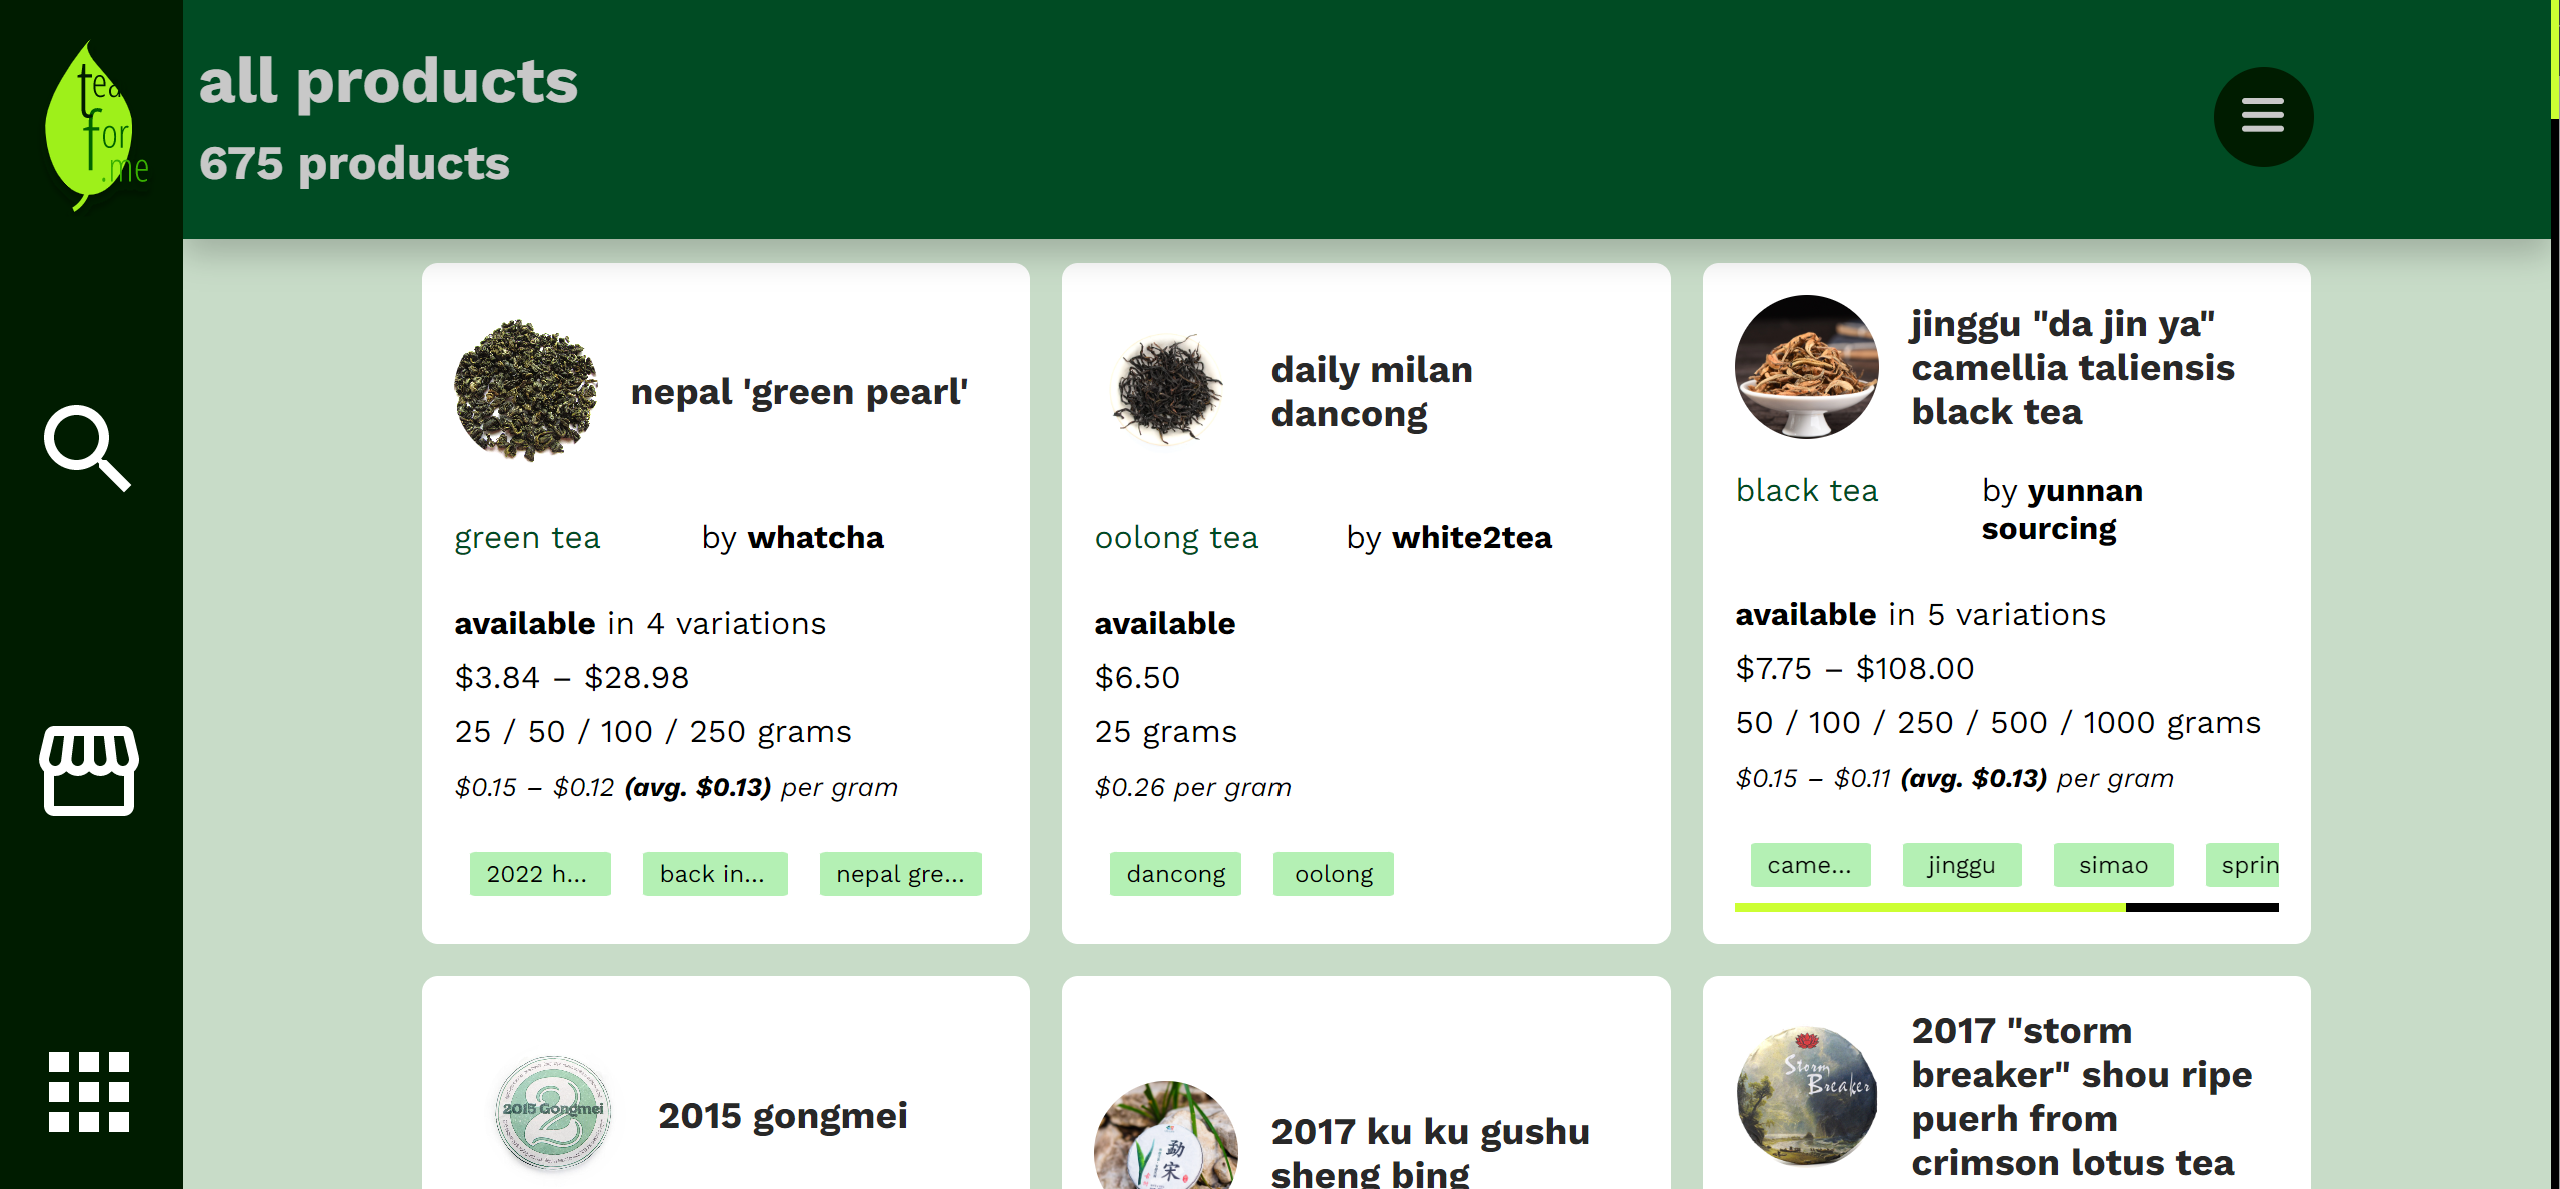
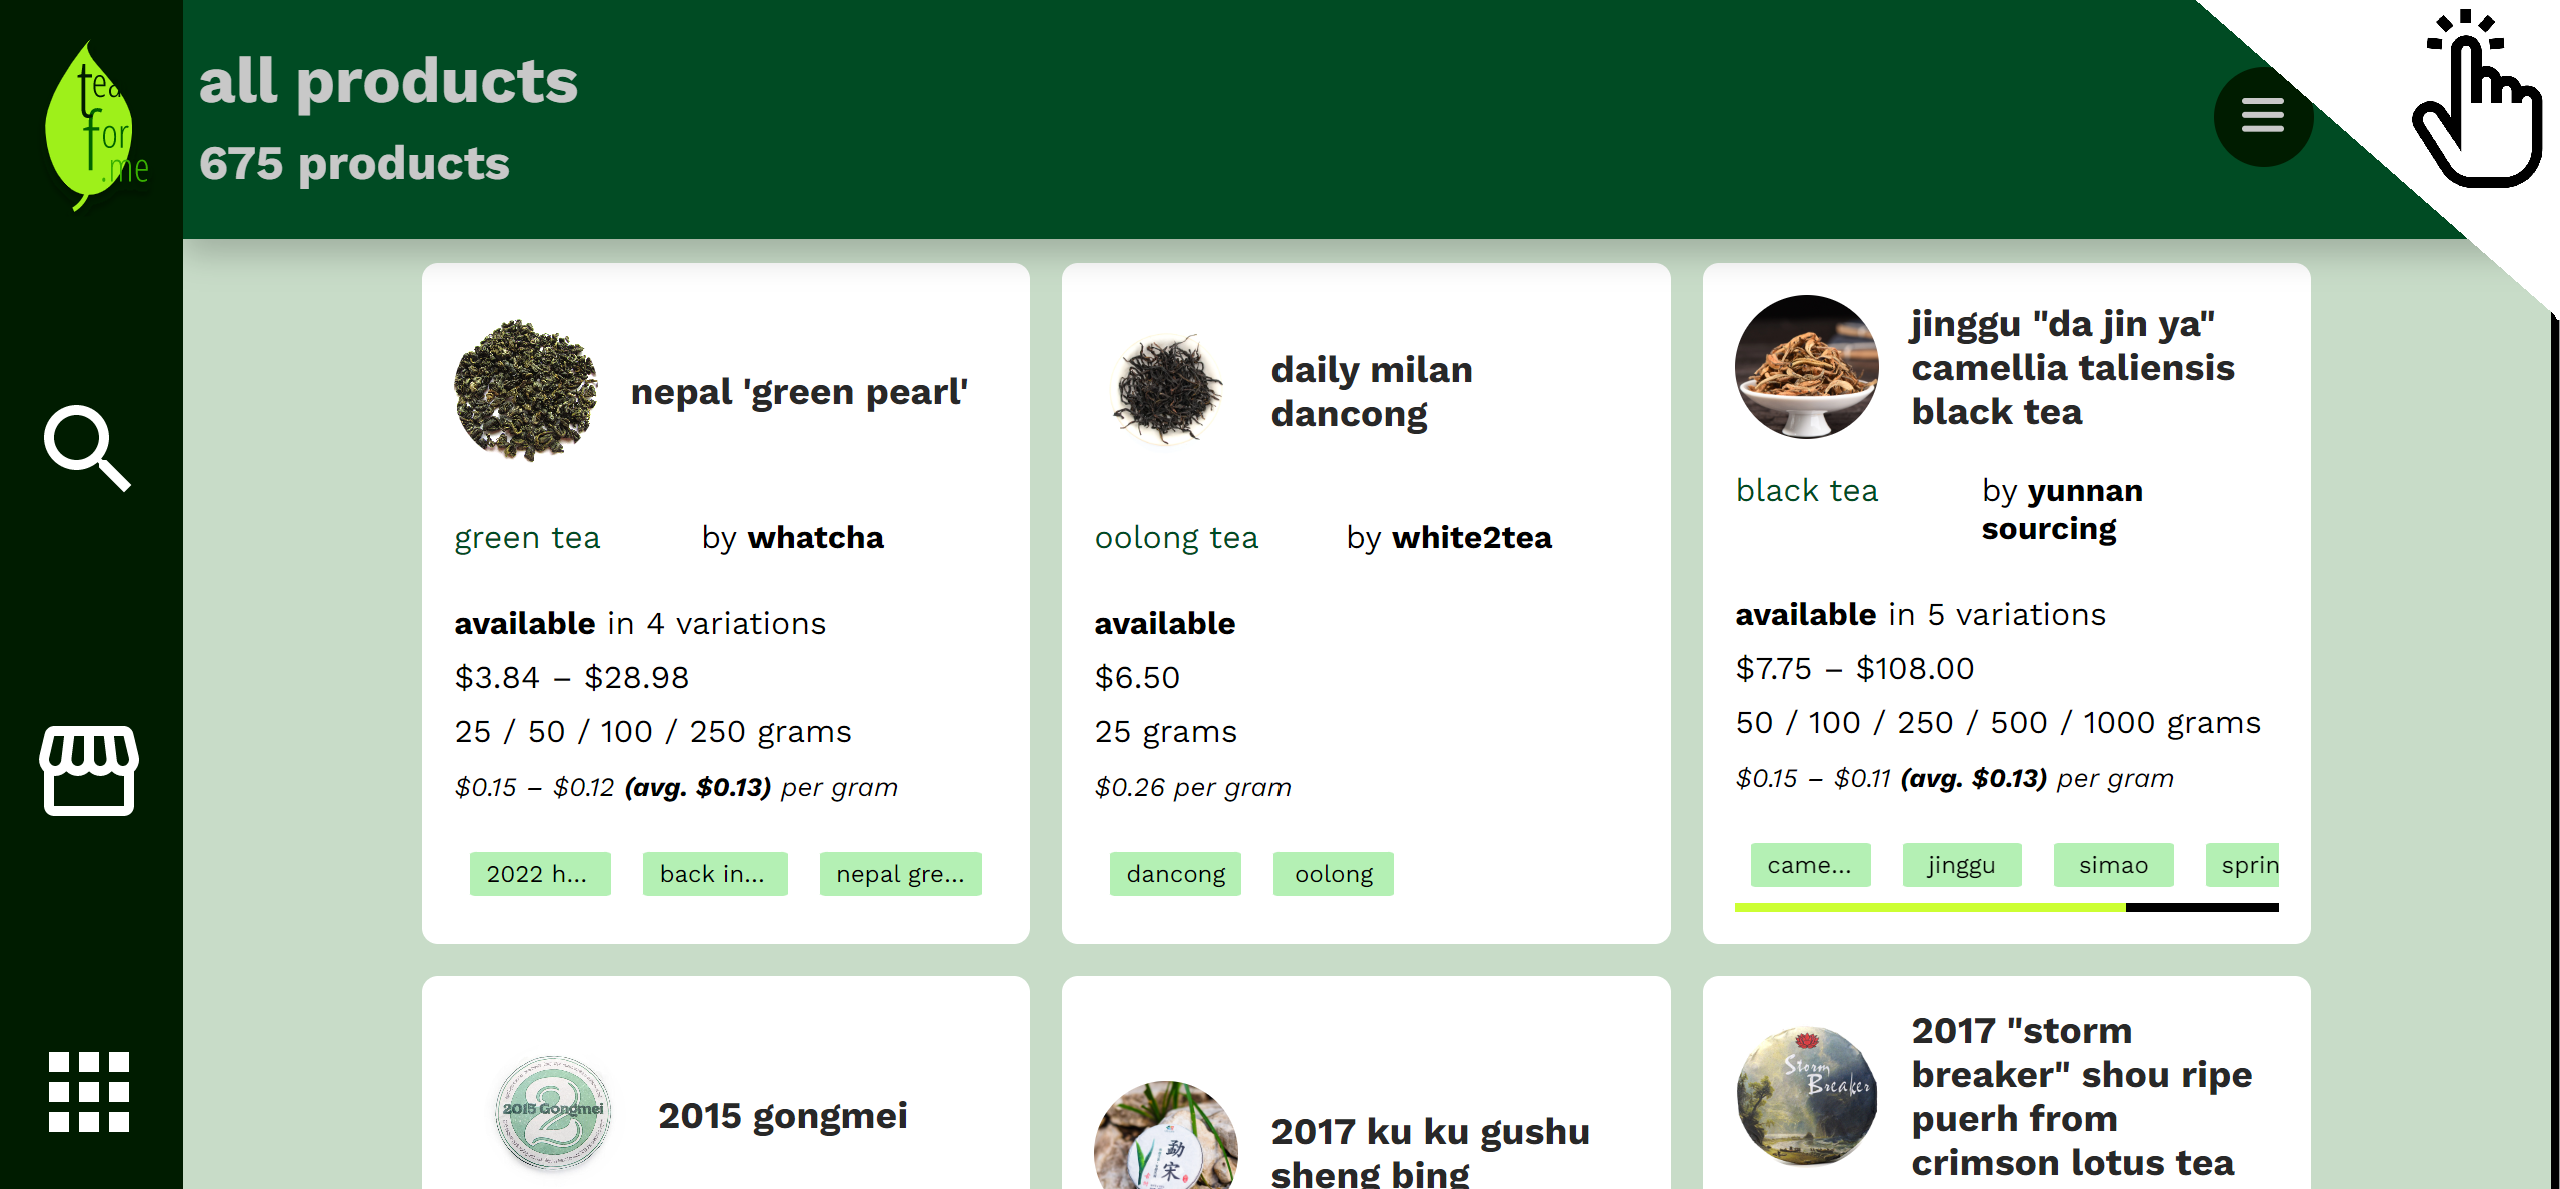
groundwork for past projects metatags clickable corner indication for tea

Changed region(s): [[0.8438, 0.0, 1.0, 0.2801]]

diff --git a/lib/constants.tsx b/lib/constants.tsx
@@ -26,7 +26,8 @@ export const [
   () => new Vector3(-350, -250, 100),
   () => new Vector3(150, -175, 225),
   () => new Vector3(0, 100, -40),
-  () => new Vector3(0, 200, -25),
+  //() => new Vector3(-60, 80, -30),
+  () => new Vector3(-96, -5, 96),
   () => new Vector3(-50, -60, 550),
   () => new Vector3(0, -35, 80),
   () => new Vector3(700, -140, 1400),
@@ -43,12 +44,12 @@ export const [
   hobbiesScrollRange,
   contactScrollRange,
 ] = [
-  (scroll: ScrollControlsState) => scroll.range(0, 0.05),
-  (scroll: ScrollControlsState) => scroll.range(0.15, 0.04, 0.01),
+  (scroll: ScrollControlsState) => scroll.range(0, 0.03),
+  (scroll: ScrollControlsState) => scroll.range(0.14, 0.05, 0.01),
   (scroll: ScrollControlsState) => scroll.range(0.27, 0.06, 0.01),
   (scroll: ScrollControlsState) => scroll.range(0.42, 0.06, 0.01),
   (scroll: ScrollControlsState) => scroll.range(0.55, 0.06, 0.01),
-  (scroll: ScrollControlsState) => scroll.range(0.7, 0.06, 0.01),
+  (scroll: ScrollControlsState) => scroll.range(0.7, 0.03, 0.01),
   (scroll: ScrollControlsState) => scroll.range(0.81, 0.06, 0.01),
   (scroll: ScrollControlsState) => scroll.range(0.93, 0.06, 0.01),
 ];

diff --git a/pages/_document.tsx b/pages/_document.tsx
@@ -1,14 +1,24 @@
 import { Html, Head, Main, NextScript } from "next/document";
+import { introText } from "../lib/text";
 
-const about = "about me - jhyahav";
+const about = "Jonathan Yahav - About me";
 const description =
-  "Jonathan Yahav's portfolio site, built with React and Three.js.";
+  "Hi, I'm Jonathan. Welcome to my portfolio site!" + introText;
 const icon = "/logo.png";
 
 export default function Document() {
   return (
     <Html>
       <Head>
+        <html lang="en" />
+        <meta charSet="utf-8" />
+        <meta
+          name="viewport"
+          content="width=device-width, initial-scale=1.0, minimum-scale=1.0, maximum-scale=1.0, user-scalable=no"
+        />
+        <meta name="robots" content="index" />
+        <meta name="description" content={description} />
+        <meta name="googlebot" content="notranslate" />
         <meta name="twitter:card" content="summary" />
         <meta name="twitter:creator" content="Jonathan Yahav" />
         <meta name="twitter:site" content={about} />

diff --git a/components/TextComponents/ImageComponents.tsx b/components/TextComponents/ImageComponents.tsx
@@ -103,6 +103,14 @@ export default function ImageComponents() {
     },
   ];
 
+  const pastProjectImages: ImageProps[] = [
+    {
+      src: "/coacss.png",
+      scale: [110, 80, 1],
+      relativePosition: new Vector3(0, 0, 0),
+    },
+  ];
+
   const contactImages: ImageProps[] = [
     {
       src: "/LinkedIn.png",
@@ -158,7 +166,6 @@ export default function ImageComponents() {
       <TextImageBillboard
         textContent={teaTextUpper}
         textContentPosition={new Vector3(0, 30, 0)}
-        // TODO: add indication that this is clickable
         images={[
           {
             src: "/teaforme.png",
@@ -180,6 +187,7 @@ export default function ImageComponents() {
       <TextImageBillboard
         textContent={pastProjectsText}
         textContentPosition={new Vector3(0, 60, 0)}
+        images={pastProjectImages}
         baseFontSize={20}
         baseFontWidth={260}
         position={constants.getExperiencePosition()}

diff --git a/components/TextComponents/ExperienceAndHobbies.tsx b/components/TextComponents/ExperienceAndHobbies.tsx
@@ -1,3 +1,4 @@
+import { Vector3 } from "three";
 import { getHobbiesPosition, hobbiesVisible } from "../../lib/constants";
 import { hobbiesText } from "../../lib/text";
 import TextImageBillboard from "./TextImageBillboard";
@@ -7,6 +8,7 @@ export default function ExperienceAndHobbies() {
     <>
       <TextImageBillboard
         textContent={hobbiesText}
+        textContentPosition={new Vector3(0, 25, 0)}
         baseFontSize={18}
         baseFontWidth={510}
         position={getHobbiesPosition()}

diff --git a/pages/accessibility.tsx b/pages/accessibility.tsx
@@ -1,0 +1,3 @@
+export default function Accessibility() {
+  return null;
+}
